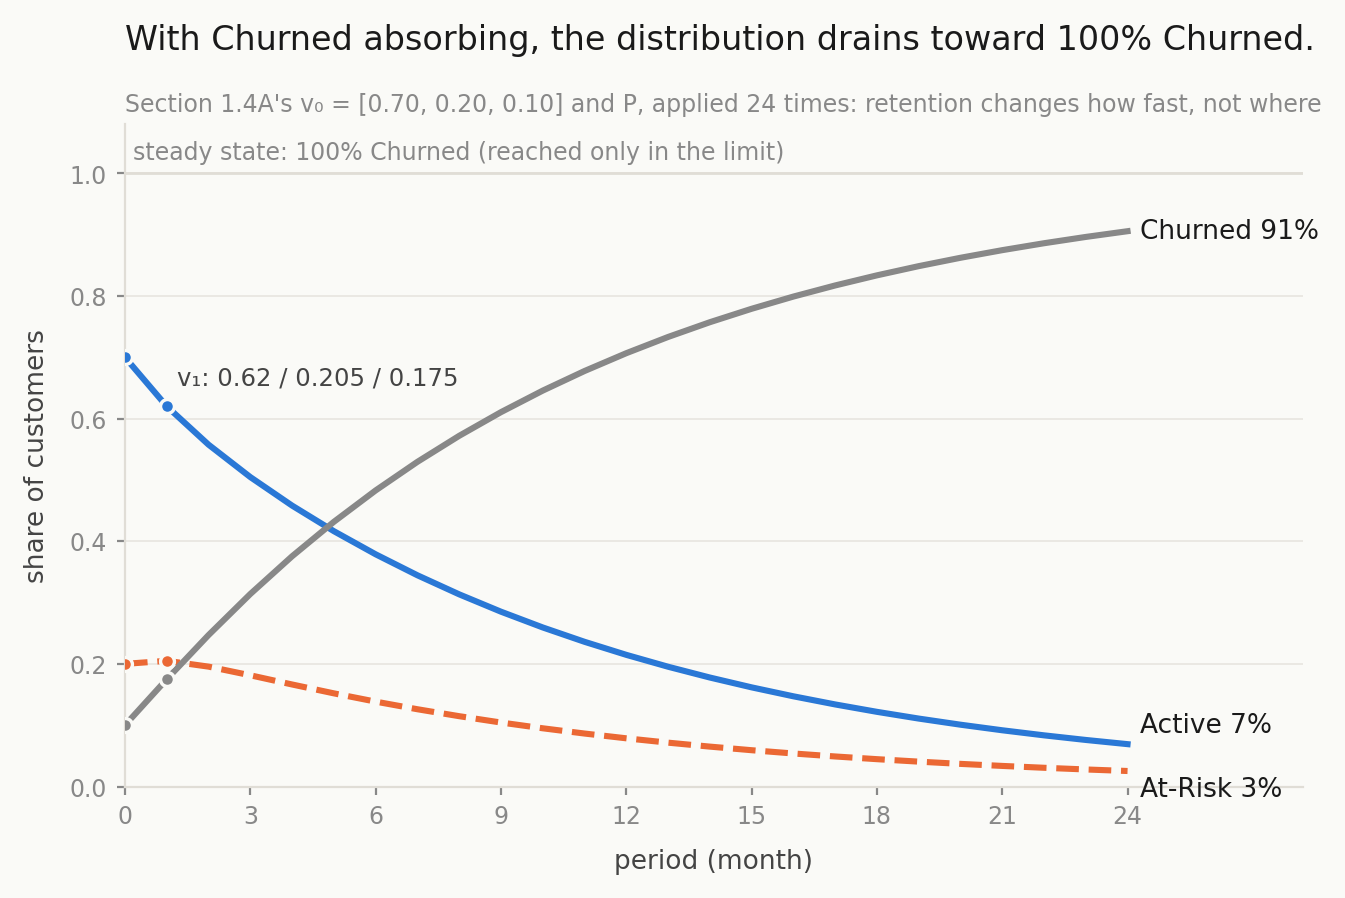
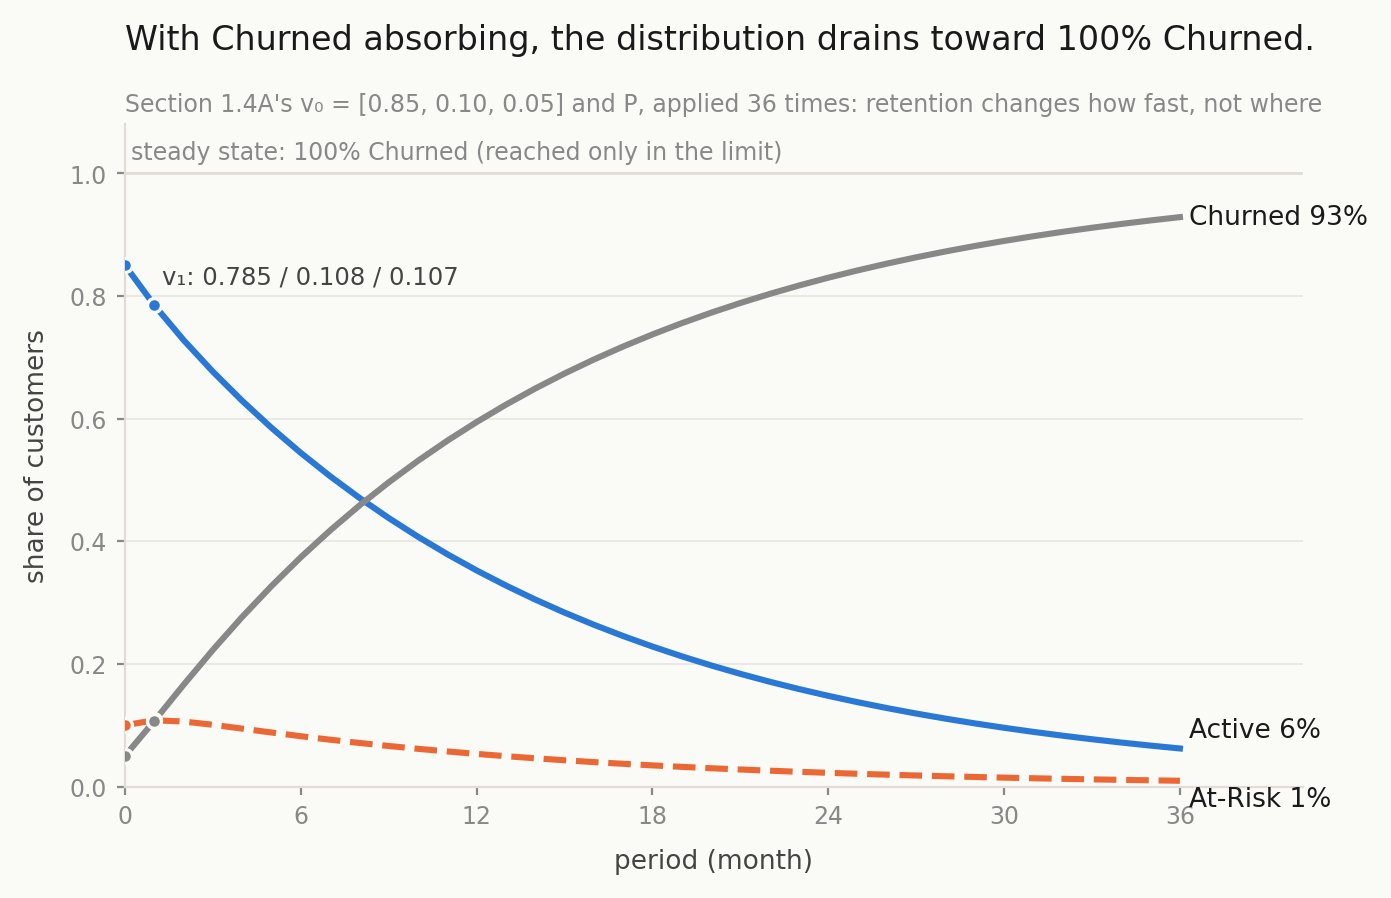
deploy: auto-update from shleeneu/mktg-analytics-course-backup 2026-10-06 18:54 UTC

diff --git a/lecture_notes/lecture_05_markov_chains.md b/lecture_notes/lecture_05_markov_chains.md
@@ -30,13 +30,13 @@
 
 A matrix has rows and columns. To multiply a vector v by a matrix P, multiply each element of v by the corresponding element in each column of P and sum.
 
-**Example:** v = [0.7, 0.2, 0.1], P = [[0.8, 0.1, 0.1], [0.3, 0.5, 0.2], [0, 0, 1]]
+**Example:** v = [0.5, 0.3, 0.2], P = [[0.6, 0.3, 0.1], [0.2, 0.5, 0.3], [0, 0, 1]]
 
-New state 1 = 0.7×0.8 + 0.2×0.3 + 0.1×0 = 0.56 + 0.06 + 0 = **0.62**
-New state 2 = 0.7×0.1 + 0.2×0.5 + 0.1×0 = 0.07 + 0.10 + 0 = **0.17**
-New state 3 = 0.7×0.1 + 0.2×0.2 + 0.1×1 = 0.07 + 0.04 + 0.10 = **0.21**
+New state 1 = 0.5×0.6 + 0.3×0.2 + 0.2×0 = 0.30 + 0.06 + 0 = **0.36**
+New state 2 = 0.5×0.3 + 0.3×0.5 + 0.2×0 = 0.15 + 0.15 + 0 = **0.30**
+New state 3 = 0.5×0.1 + 0.3×0.3 + 0.2×1 = 0.05 + 0.09 + 0.20 = **0.34**
 
-Result: v₁ = [0.62, 0.17, 0.21]. All three values sum to 1. ✓
+Result: v₁ = [0.36, 0.30, 0.34]. All three values sum to 1. ✓
 
 **Why the recipe works.** It is the law of total probability. To be in state *j* next period, a
 customer must be in *some* state *i* now and then move from *i* to *j*. So you add up the
@@ -104,26 +104,26 @@ This implies: if Churned is absorbing, retention matters because it determines h
 
 #### Part A: One Period of Transition
 
-Starting distribution v₀ = [Active=0.70, At-Risk=0.20, Churned=0.10]
+Starting distribution v₀ = [Active=0.85, At-Risk=0.10, Churned=0.05]
 
 Transition matrix P:
 
 | From \ To | Active | At-Risk | Churned |
 |---|---|---|---|
-| Active | 0.80 | 0.15 | 0.05 |
-| At-Risk | 0.30 | 0.50 | 0.20 |
+| Active | 0.90 | 0.08 | 0.02 |
+| At-Risk | 0.20 | 0.40 | 0.40 |
 | Churned | 0.00 | 0.00 | 1.00 |
 
-![State diagram of Section 1.4A's transition matrix. Three circles: Active, At-Risk, Churned. Active has a self-loop of 0.80, an arrow of 0.15 to At-Risk and an arrow of 0.05 to Churned. At-Risk has a self-loop of 0.50, an arrow of 0.30 back to Active and an arrow of 0.20 to Churned. Churned has a self-loop of 1.00 and no arrow out, marked absorbing.](figures/lecture_05_state_diagram.png)
+![State diagram of Section 1.4A's transition matrix. Three circles: Active, At-Risk, Churned. Active has a self-loop of 0.90, an arrow of 0.08 to At-Risk and an arrow of 0.02 to Churned. At-Risk has a self-loop of 0.40, an arrow of 0.20 back to Active and an arrow of 0.40 to Churned. Churned has a self-loop of 1.00 and no arrow out, marked absorbing.](figures/lecture_05_state_diagram.png)
 
 After one period (v₀ × P):
-- New Active = 0.70×0.80 + 0.20×0.30 + 0.10×0 = 0.56 + 0.06 = **0.62**
-- New At-Risk = 0.70×0.15 + 0.20×0.50 + 0.10×0 = 0.105 + 0.10 = **0.205**
-- New Churned = 0.70×0.05 + 0.20×0.20 + 0.10×1 = 0.035 + 0.04 + 0.10 = **0.175**
+- New Active = 0.85×0.90 + 0.10×0.20 + 0.05×0 = 0.765 + 0.02 = **0.785**
+- New At-Risk = 0.85×0.08 + 0.10×0.40 + 0.05×0 = 0.068 + 0.04 = **0.108**
+- New Churned = 0.85×0.02 + 0.10×0.40 + 0.05×1 = 0.017 + 0.04 + 0.05 = **0.107**
 
-v₁ = [0.62, 0.205, 0.175]. Sum = 1.00 ✓
+v₁ = [0.785, 0.108, 0.107]. Sum = 1.00 ✓
 
-Active decreased from 70% to 62%. Churned increased from 10% to 17.5%.
+Active decreased from 85% to 78.5%. Churned increased from 5% to 10.7%.
 
 **Several periods at once: $P^n$.** Two periods ahead is v₂ = v₁ × P = v₀ × P × P. The product P × P
 is written $P^2$. Each of its entries is a row of P times a column of P, the same row-times-column
@@ -142,18 +142,18 @@ The steady-state distribution π is the distribution that one more period leaves
 
 **The critical insight:** The steady-state is where the current transition dynamics are pointing — not necessarily where you want to be. **If no state is absorbing** — say some churned customers are won back each month — the chain settles at a mix of all three states. If that mix has 40% Active while 75% are Active today, then without any intervention Active% will decline from 75% toward 40% over time. **If Churned is absorbing, as in our P,** the same logic gives a starker answer: the steady state is 100% Churned, and Active% declines toward 0. The next paragraph shows what that means for interventions.
 
-![Line chart over 24 months starting from v0 = 0.70 Active, 0.20 At-Risk, 0.10 Churned under Section 1.4A's P. Active falls steadily from 0.70 (0.62 after one month) to about 7% at month 24; At-Risk edges up to 0.205 then falls to about 3%; Churned rises every month from 0.10 to about 91%. A reference line at 100% is labelled steady state: 100% Churned, reached only in the limit.](figures/lecture_05_distribution_drain.png)
+![Line chart over 36 months starting from v0 = 0.85 Active, 0.10 At-Risk, 0.05 Churned under Section 1.4A's P. Active falls steadily from 0.85 (0.785 after one month) to about 6% at month 36; At-Risk edges up to about 0.11 then falls to about 1%; Churned rises every month from 0.05 to about 93%. A reference line at 100% is labelled steady state: 100% Churned, reached only in the limit.](figures/lecture_05_distribution_drain.png)
 
 **Interventions change the transition matrix — but check what that actually moves.** If a
-re-engagement campaign increases At-Risk → Active from 0.30 to 0.45, a new matrix P' applies, and you
+re-engagement campaign increases At-Risk → Active from 0.20 to 0.35, a new matrix P' applies, and you
 find its steady state by iterating P' to convergence. P' is row 2 re-balanced — At-Risk → Active rises
-0.30 → 0.45 and At-Risk → At-Risk falls 0.50 → 0.35, so the row still sums to 1. Do that and the result
+0.20 → 0.35 and At-Risk → At-Risk falls 0.40 → 0.25, so the row still sums to 1. Do that and the result
 is worth pausing on:
 
-| | steady state | Active after 12 periods (from v₀ = [0.60, 0.30, 0.10]) |
+| | steady state | Active after 12 periods (from v₀ = [0.45, 0.40, 0.15]) |
 |---|---|---|
-| P (At-Risk→Active = 0.30) | [0, 0, 1] | 0.208 |
-| P' (At-Risk→Active = 0.45) | [0, 0, 1] | 0.250 |
+| P (At-Risk→Active = 0.20) | [0, 0, 1] | 0.239 |
+| P' (At-Risk→Active = 0.35) | [0, 0, 1] | 0.295 |
 
 **The steady state does not budge.** As long as Churned is absorbing, *every* path leads there
 eventually, so no change to the Active and At-Risk rows can alter the destination — it can only change
@@ -189,13 +189,13 @@ $$t_i = 1 + \sum_{j \text{ not absorbing}} P_{ij}\, t_j$$
 
 That is one equation per transient state. Two transient states → two equations → solve the pair.
 
-**Worked example** with the lecture's P (Active = [0.80, 0.15, 0.05], At-Risk = [0.30, 0.50, 0.20]):
+**Worked example** with the lecture's P (Active = [0.90, 0.08, 0.02], At-Risk = [0.20, 0.40, 0.40]):
 
-$$t_A = 1 + 0.80\,t_A + 0.15\,t_R \qquad\Longrightarrow\qquad 0.20\,t_A - 0.15\,t_R = 1$$
-$$t_R = 1 + 0.30\,t_A + 0.50\,t_R \qquad\Longrightarrow\qquad -0.30\,t_A + 0.50\,t_R = 1$$
+$$t_A = 1 + 0.90\,t_A + 0.08\,t_R \qquad\Longrightarrow\qquad 0.10\,t_A - 0.08\,t_R = 1$$
+$$t_R = 1 + 0.20\,t_A + 0.40\,t_R \qquad\Longrightarrow\qquad -0.20\,t_A + 0.60\,t_R = 1$$
 
-Solving: $t_A = 0.65 / 0.055 \approx \mathbf{11.8}$ months, $t_R = 0.50 / 0.055 \approx \mathbf{9.1}$
-months. **A currently-Active customer is worth about 11.8 more months; an At-Risk one about 9.1.**
+Solving: $t_A = 0.68 / 0.044 \approx \mathbf{15.5}$ months, $t_R = 0.30 / 0.044 \approx \mathbf{6.8}$
+months. **A currently-Active customer is worth about 15.5 more months; an At-Risk one about 6.8.**
 The gap is the whole argument for triaging retention effort toward the declining-engagement
 state — there is less time left in which to act.
 
@@ -203,21 +203,21 @@ state — there is less time left in which to act.
 **larger** $t_i$. If At-Risk comes out above Active, the fitted matrix is letting At-Risk customers
 return to Active too readily, or the rows are transposed.
 
-**What the campaign actually bought.** Re-run the same two equations on P' (At-Risk → Active = 0.45,
-At-Risk → At-Risk = 0.35): $t_A = 0.80/0.0625 = \mathbf{12.8}$ months and
-$t_R = 0.65/0.0625 = \mathbf{10.4}$ months. The destination is unchanged — it always was — but every
-customer now takes about **a month longer** to get there, and an At-Risk one takes **1.3 months**
-longer. *That* is the campaign's effect, stated in a unit finance will accept, and it is invisible in
+**What the campaign actually bought.** Re-run the same two equations on P' (At-Risk → Active = 0.35,
+At-Risk → At-Risk = 0.25): $t_A = 0.83/0.047 = \mathbf{17.7}$ months and
+$t_R = 0.45/0.047 = \mathbf{9.6}$ months. The destination is unchanged — it always was — but an
+Active customer now takes about **2.2 months longer** to get there, and an At-Risk one takes
+**2.8 months** longer. *That* is the campaign's effect, stated in a unit finance will accept, and it is invisible in
 the steady state.
 
 > ### 🔍 Deep Dive: The Fundamental Matrix
 > The same calculation in matrix form, which is what code will hand you. Strip the absorbing row and
 > column out of P and call the remaining transient block **Q** (here the 2×2 matrix
-> [[0.80, 0.15], [0.30, 0.50]]). Then the **fundamental matrix** is $N = (I - Q)^{-1}$, and the
+> [[0.90, 0.08], [0.20, 0.40]]). Then the **fundamental matrix** is $N = (I - Q)^{-1}$, and the
 > vector of expected times is $\mathbf{t} = N\mathbf{1}$ — row sums of N. For the P above,
-> $N = $ [[9.09, 2.73], [5.45, 3.64]], whose row sums are 11.82 and 9.09: the same two answers.
+> $N = $ [[13.64, 1.82], [4.55, 2.27]], whose row sums are 15.45 and 6.82: the same two answers.
 > $N_{ij}$ has its own reading — the expected number of periods spent in state *j* before absorption,
-> starting from *i* — so $N_{AA} = 9.09$ says an Active customer spends about 9 of their 11.8
+> starting from *i* — so $N_{AA} = 13.64$ says an Active customer spends about 13.6 of their 15.5
 > remaining months Active. In `numpy`: `t = numpy.linalg.inv(numpy.eye(2) - Q) @ numpy.ones(2)`.
 > Why the inverse appears: $\mathbf{t} = \mathbf{1} + Q\mathbf{t}$ is exactly the system above
 > written in one line, and solving it for $\mathbf{t}$ gives $(I - Q)^{-1}\mathbf{1}$.
@@ -314,7 +314,7 @@ at 100% Churned for any P whose Churned row is [0, 0, 1].
 > just state the answer.** Using Copilot or Claude to reach the answer is expected — what
 > you cannot outsource is the explanation.
 
-1. Transition matrix P: Active=[0.80, 0.15, 0.05], At-Risk=[0.30, 0.50, 0.20], Churned=[0, 0, 1]. Starting from v₀=[0.60, 0.30, 0.10], compute v₁.
+1. Transition matrix P: Active=[0.90, 0.08, 0.02], At-Risk=[0.20, 0.40, 0.40], Churned=[0, 0, 1]. Starting from v₀=[0.45, 0.40, 0.15], compute v₁.
 
 2. Using v₁ from Q1, compute v₂ = v₁ × P.
 
@@ -322,25 +322,25 @@ at 100% Churned for any P whose Churned row is [0, 0, 1].
 
 4. A *different* company's chain has **no absorbing state** — some churned customers come back each month. Its current Active% = 70% and its steady-state Active% = 35%. If nothing changes, will Active% increase or decrease over time?
 
-5. A re-engagement campaign increases At-Risk→Active from 0.30 to 0.45, with Churned still absorbing. What happens to the steady-state Active%, and what does the campaign actually change?
+5. A re-engagement campaign increases At-Risk→Active from 0.20 to 0.35, with Churned still absorbing. What happens to the steady-state Active%, and what does the campaign actually change?
 
 ---
 
 ### Checkpoint Answer Key
 
-**Q1.** v₀ = [0.60, 0.30, 0.10].
-New Active = 0.60×0.80 + 0.30×0.30 + 0.10×0 = 0.48 + 0.09 = **0.57**
-New At-Risk = 0.60×0.15 + 0.30×0.50 + 0.10×0 = 0.09 + 0.15 = **0.24**
-New Churned = 0.60×0.05 + 0.30×0.20 + 0.10×1 = 0.03 + 0.06 + 0.10 = **0.19**
-v₁ = [0.57, 0.24, 0.19]. Sum = 1.00 ✓
+**Q1.** v₀ = [0.45, 0.40, 0.15].
+New Active = 0.45×0.90 + 0.40×0.20 + 0.15×0 = 0.405 + 0.08 = **0.485**
+New At-Risk = 0.45×0.08 + 0.40×0.40 + 0.15×0 = 0.036 + 0.16 = **0.196**
+New Churned = 0.45×0.02 + 0.40×0.40 + 0.15×1 = 0.009 + 0.16 + 0.15 = **0.319**
+v₁ = [0.485, 0.196, 0.319]. Sum = 1.00 ✓
 
 *Common wrong answer:* Multiplying row × row instead of vector × matrix. Always multiply each element of the current distribution by the corresponding entry in each column of P.
 
-**Q2.** v₁ = [0.57, 0.24, 0.19].
-New Active = 0.57×0.80 + 0.24×0.30 + 0.19×0 = 0.456 + 0.072 = **0.528**
-New At-Risk = 0.57×0.15 + 0.24×0.50 + 0.19×0 = 0.0855 + 0.12 = **0.2055**
-New Churned = 0.57×0.05 + 0.24×0.20 + 0.19×1 = 0.0285 + 0.048 + 0.19 = **0.2665**
-v₂ ≈ [0.528, 0.206, 0.267]. Sum ≈ 1.00 ✓
+**Q2.** v₁ = [0.485, 0.196, 0.319].
+New Active = 0.485×0.90 + 0.196×0.20 + 0.319×0 = 0.4365 + 0.0392 = **0.4757**
+New At-Risk = 0.485×0.08 + 0.196×0.40 + 0.319×0 = 0.0388 + 0.0784 = **0.1172**
+New Churned = 0.485×0.02 + 0.196×0.40 + 0.319×1 = 0.0097 + 0.0784 + 0.319 = **0.4071**
+v₂ = [0.4757, 0.1172, 0.4071]. Sum = 1.00 ✓
 
 **Q3.** Yes, Churned is absorbing — its row is [0, 0, 1], meaning once churned, the probability of staying churned is 1. Long-run implication: all customers eventually end up in Churned. The steady-state has 100% in Churned. Retention strategy determines how slowly or quickly the distribution drains into the absorbing state.
 
@@ -352,7 +352,7 @@ v₂ ≈ [0.528, 0.206, 0.267]. Sum ≈ 1.00 ✓
 
 *Contrast with Q3:* our P has an absorbing Churned, so its steady state is 0% Active and Active% decreases toward 0. Same rule — move toward the steady state — different destination.
 
-**Q5.** **It does not change — the steady state stays at 0% Active / 100% Churned.** Churned is still absorbing, so every customer still ends up there eventually; raising At-Risk→Active cannot alter the destination. What the campaign changes is the **speed**: starting from [0.60, 0.30, 0.10], Active after 12 periods is 0.208 under the original P and 0.250 under P'. That improvement is real and is worth paying for — you just have to measure it at a **finite horizon**, not in the steady state.
+**Q5.** **It does not change — the steady state stays at 0% Active / 100% Churned.** Churned is still absorbing, so every customer still ends up there eventually; raising At-Risk→Active cannot alter the destination. What the campaign changes is the **speed**: starting from [0.45, 0.40, 0.15], Active after 12 periods is 0.239 under the original P and 0.295 under P'. That improvement is real and is worth paying for — you just have to measure it at a **finite horizon**, not in the steady state.
 
 *Common wrong answer:* "The steady-state Active% will be higher, because more customers are returning to Active each period." This is the trap the absorbing state sets. It is true that more customers return to Active each period, and true that the distribution is healthier at every finite horizon — but the steady state answers a different question ("where does this end up?"), and with an absorbing Churned the answer is always the same. The only intervention that moves the steady state is one that makes Churned **non-absorbing** — a win-back programme with a non-zero Churned → Active probability.
 
@@ -374,7 +374,7 @@ A mobile gaming company tracks player engagement monthly. The transition count m
 | From↓ \ To→ | Active | At-Risk | Churned |
 |---|---|---|---|
 | Active | 560 | 140 | 100 |
-| At-Risk | 180 | 200 | 120 |
+| At-Risk | 180 | 170 | 150 |
 | Churned | 0 | 0 | 800 |
 
 **Part A:** Build the transition probability matrix $P$ by normalizing each row. Verify all rows sum to 1.
@@ -391,19 +391,19 @@ A mobile gaming company tracks player engagement monthly. The transition count m
 
 Row sums: Active = 800, At-Risk = 500, Churned = 800.
 
-$$P = \begin{bmatrix} 560/800 & 140/800 & 100/800 \\ 180/500 & 200/500 & 120/500 \\ 0/800 & 0/800 & 800/800 \end{bmatrix} = \begin{bmatrix} 0.700 & 0.175 & 0.125 \\ 0.360 & 0.400 & 0.240 \\ 0.000 & 0.000 & 1.000 \end{bmatrix}$$
+$$P = \begin{bmatrix} 560/800 & 140/800 & 100/800 \\ 180/500 & 170/500 & 150/500 \\ 0/800 & 0/800 & 800/800 \end{bmatrix} = \begin{bmatrix} 0.700 & 0.175 & 0.125 \\ 0.360 & 0.340 & 0.300 \\ 0.000 & 0.000 & 1.000 \end{bmatrix}$$
 
-Row sums: $0.700+0.175+0.125 = 1.000$; $0.360+0.400+0.240 = 1.000$; $0+0+1 = 1.000$ ✓
+Row sums: $0.700+0.175+0.125 = 1.000$; $0.360+0.340+0.300 = 1.000$; $0+0+1 = 1.000$ ✓
 
 **Part B: Active Row of $P^2$**
 
 $$(P^2)_{A,A} = 0.700 \times 0.700 + 0.175 \times 0.360 + 0.125 \times 0.000 = 0.490 + 0.063 + 0.000 = \mathbf{0.553}$$
 
-$$(P^2)_{A,R} = 0.700 \times 0.175 + 0.175 \times 0.400 + 0.125 \times 0.000 = 0.1225 + 0.070 + 0.000 = \mathbf{0.193}$$
+$$(P^2)_{A,R} = 0.700 \times 0.175 + 0.175 \times 0.340 + 0.125 \times 0.000 = 0.1225 + 0.0595 + 0.000 = \mathbf{0.182}$$
 
-$$(P^2)_{A,C} = 0.700 \times 0.125 + 0.175 \times 0.240 + 0.125 \times 1.000 = 0.0875 + 0.042 + 0.125 = \mathbf{0.255}$$
+$$(P^2)_{A,C} = 0.700 \times 0.125 + 0.175 \times 0.300 + 0.125 \times 1.000 = 0.0875 + 0.0525 + 0.125 = \mathbf{0.265}$$
 
-Check: $0.553 + 0.193 + 0.255 = 1.001 \approx 1.000$ ✓ (rounding)
+Check: $0.553 + 0.182 + 0.265 = 1.000$ ✓
 
 **Part C: Churn Progression from Active State**
 
@@ -411,12 +411,12 @@ Check: $0.553 + 0.193 + 0.255 = 1.001 \approx 1.000$ ✓ (rounding)
 |---|---|---|---|
 | 0 | 1.000 | 0.000 | 0.000 |
 | 1 | 0.700 | 0.175 | 0.125 |
-| 2 | 0.553 | 0.193 | 0.255 |
+| 2 | 0.553 | 0.182 | 0.265 |
 
 The probability of being in a non-Churned state (Active + At-Risk):
 - Month 0: 1.000 (all survive)
 - Month 1: 0.700 + 0.175 = 0.875
-- Month 2: 0.553 + 0.193 = 0.746
+- Month 2: 0.553 + 0.182 = 0.735
 
 This is exactly the survival function $\hat{S}(t)$ from Lecture 4, computed here via Markov chain dynamics. The connection between survival analysis and Markov chains is not a coincidence — they model the same phenomenon from different angles.
 
@@ -430,7 +430,7 @@ This is exactly the survival function $\hat{S}(t)$ from Lecture 4, computed here
 - Heavy off-diagonal flows toward Churned: dangerous — many customers flowing out
 - Unexpected flows (e.g., Churned → Active > 0): may indicate data quality issues or intentional win-back programs
 
-**The steady-state vector:** Represents the long-run customer mix. If the current distribution is better than steady state, expect deterioration over time. If worse, expect improvement. Use this for long-run capacity and revenue planning.
+**The steady-state vector:** For a chain with **no** absorbing state, it is the long-run customer mix: if the current distribution is better than the steady state, expect deterioration over time; if worse, expect improvement. With an absorbing Churned, as in this lecture and the homework, it is always [0, 0, 1], so it carries no planning information. Read the expected time to absorption (Part C) and the finite-horizon projection instead.
 
 **Simulation output:** Plotting the fraction in each state over 24 simulated months starting from a realistic initial distribution. Look for:
 - How quickly does the distribution converge to steady state?
@@ -466,7 +466,7 @@ This is exactly the survival function $\hat{S}(t)$ from Lecture 4, computed here
 ### Common Misconceptions
 
 **1. "The steady-state distribution tells us what will happen next month."**
-The steady state is the long-run equilibrium — it describes what the distribution converges to over many periods, not what happens in one period. For short-run predictions, use $\pi_0 P^n$ where $\pi_0$ is today's distribution.
+The steady state is the long-run equilibrium — it describes what the distribution converges to over many periods, not what happens in one period. For short-run predictions, use $v_0 P^n$ where $v_0$ is today's distribution.
 
 **2. "The Markov property means history does not matter at all."**
 The Markov property means the transition probabilities depend only on the current state — but the current state itself summarizes the relevant history. A customer who is "At-Risk" has implicitly communicated their recent behavior through their state assignment.
@@ -477,7 +477,7 @@ More states can capture finer distinctions but increase estimation error (fewer 
 **4. "Rows of $P^n$ are computed by multiplying each row element of $P$ by $n$."**
 $P^n$ requires actual matrix multiplication ($n-1$ times), not element-wise scaling. The elements of $P^n$ are not simply $n$ times the elements of $P$.
 
-**5. "If the steady state shows 40% Active, I can guarantee 40% Active customers tomorrow."**
+**5. "If the steady state shows 40% Active, I can guarantee 40% Active customers tomorrow."** (A 40% Active steady state needs a chain with no absorbing state, one where churned customers can return.)
 The steady state is an asymptotic property. Convergence may take months or years, and if the transition matrix itself changes (due to seasonality, product changes, or campaigns), the system may never actually reach the theoretical steady state.
 
 ---
